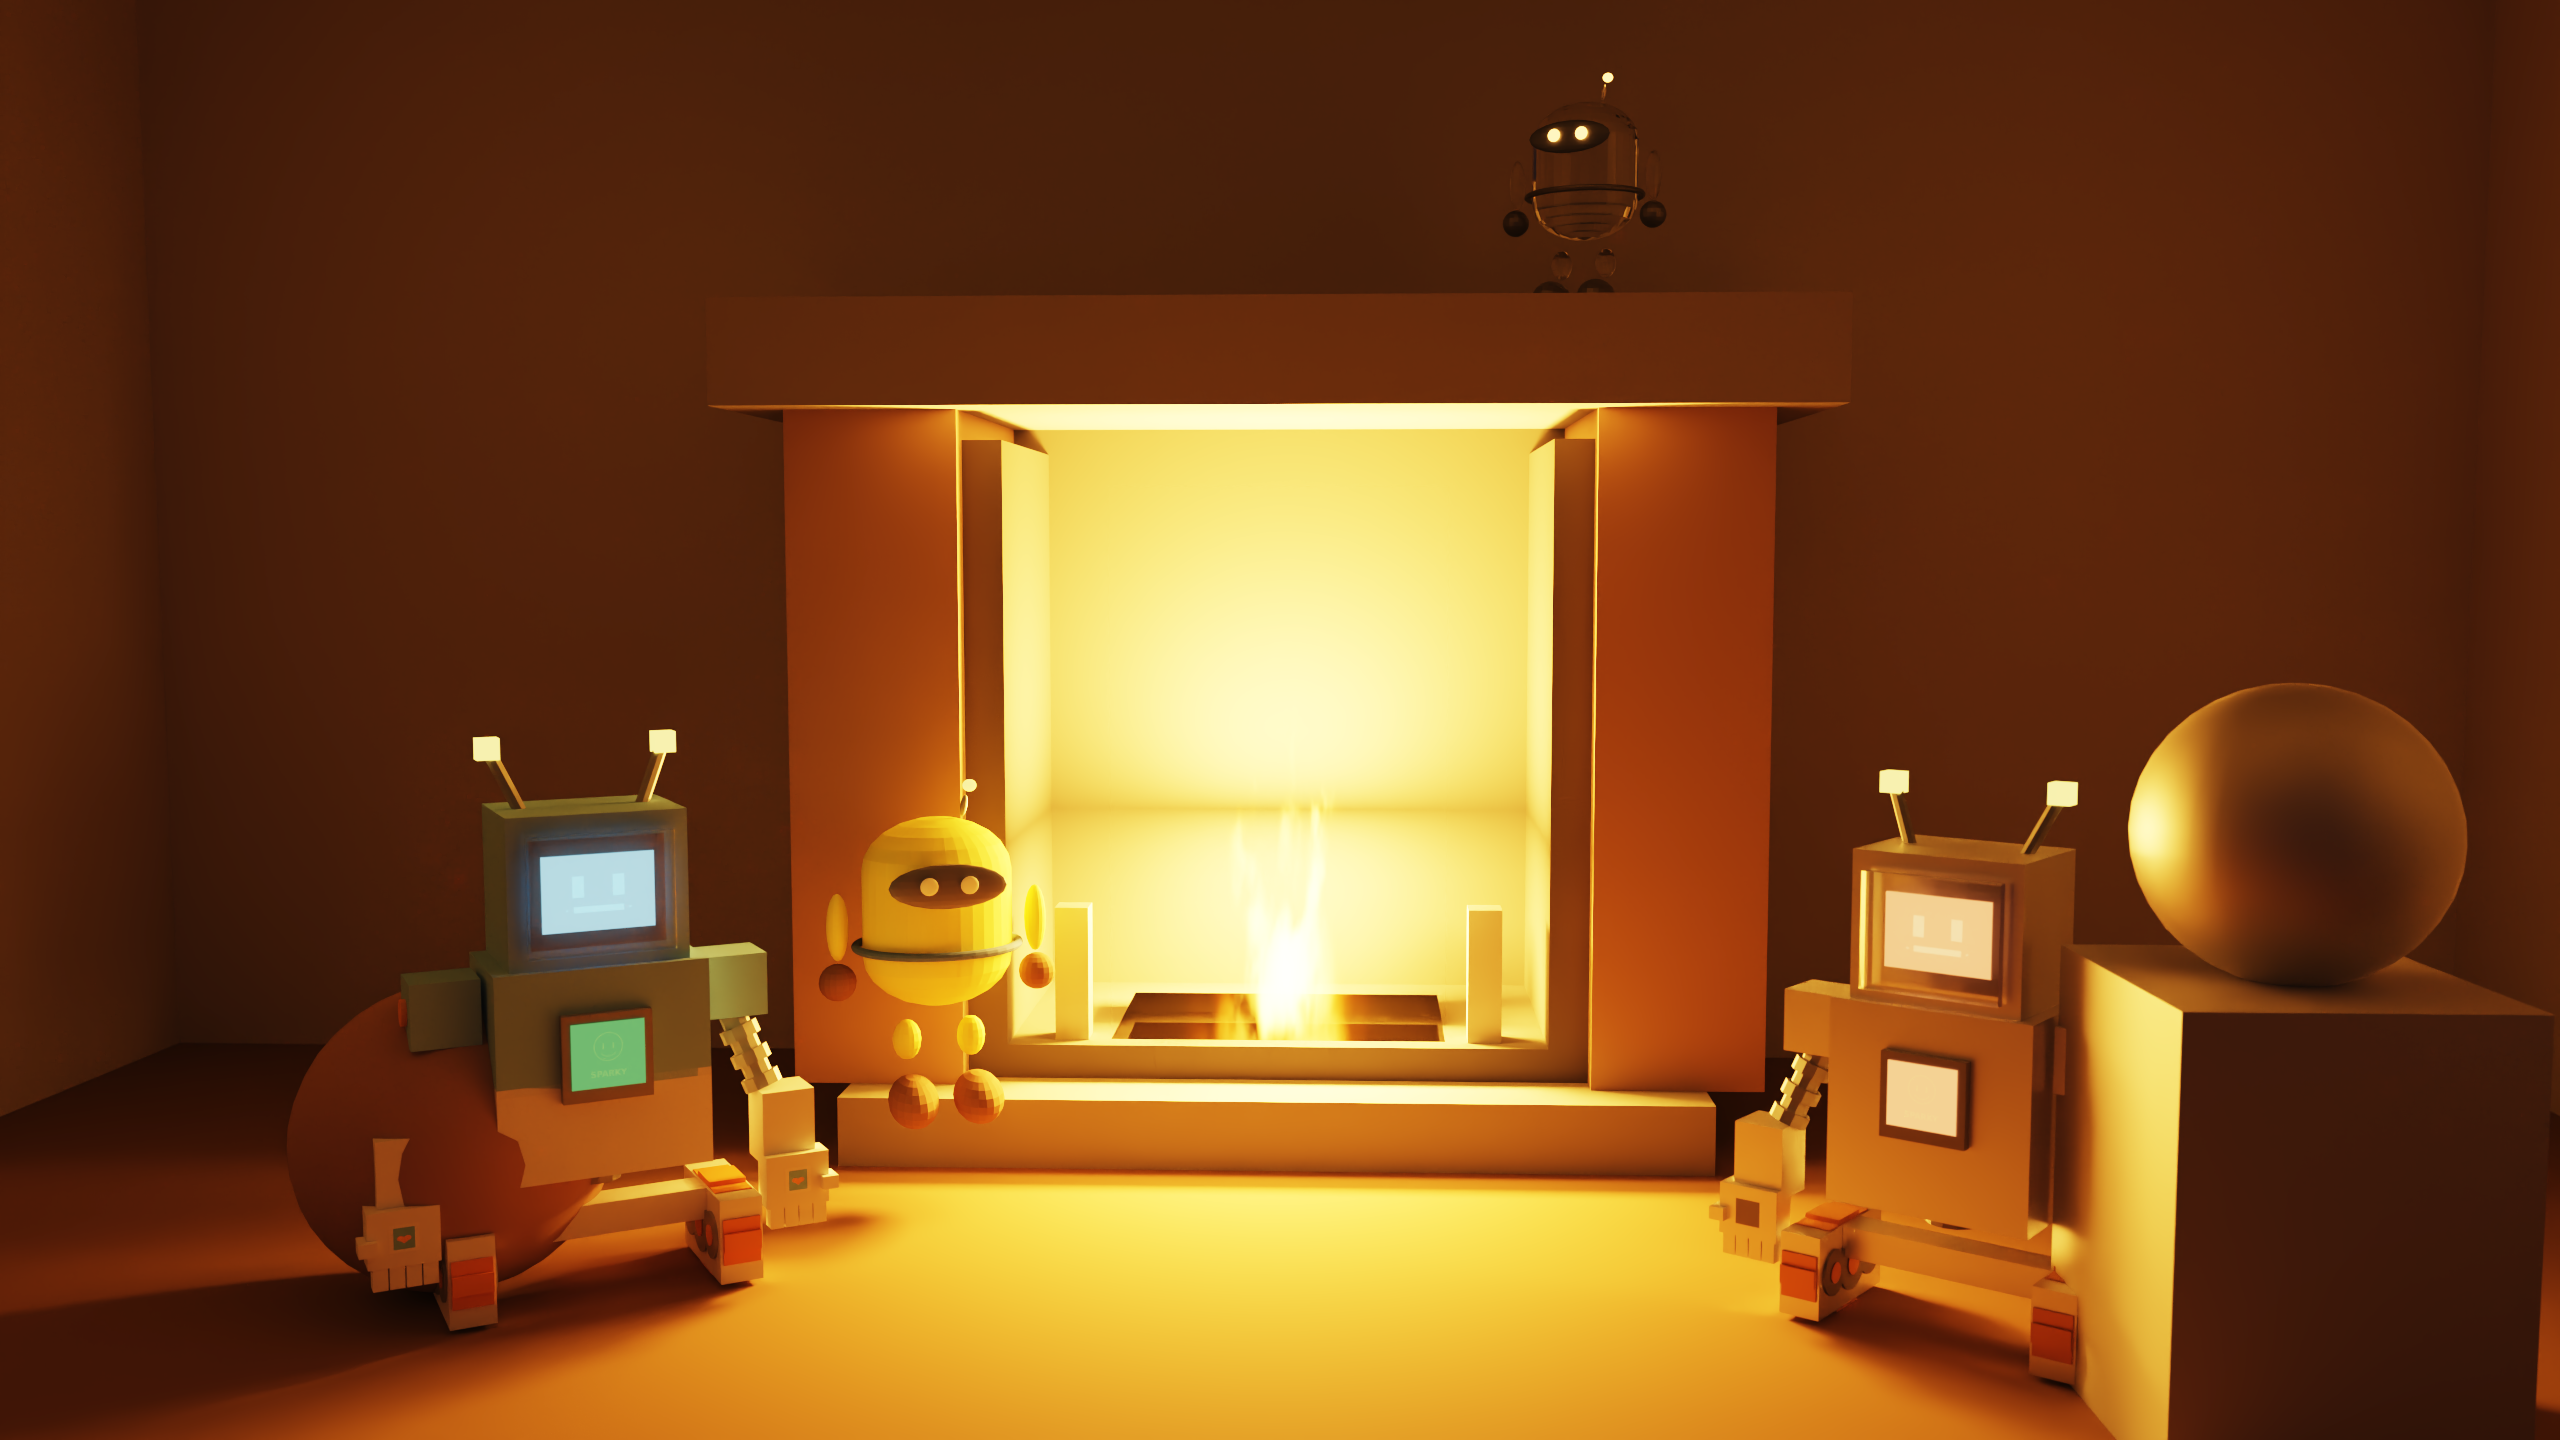
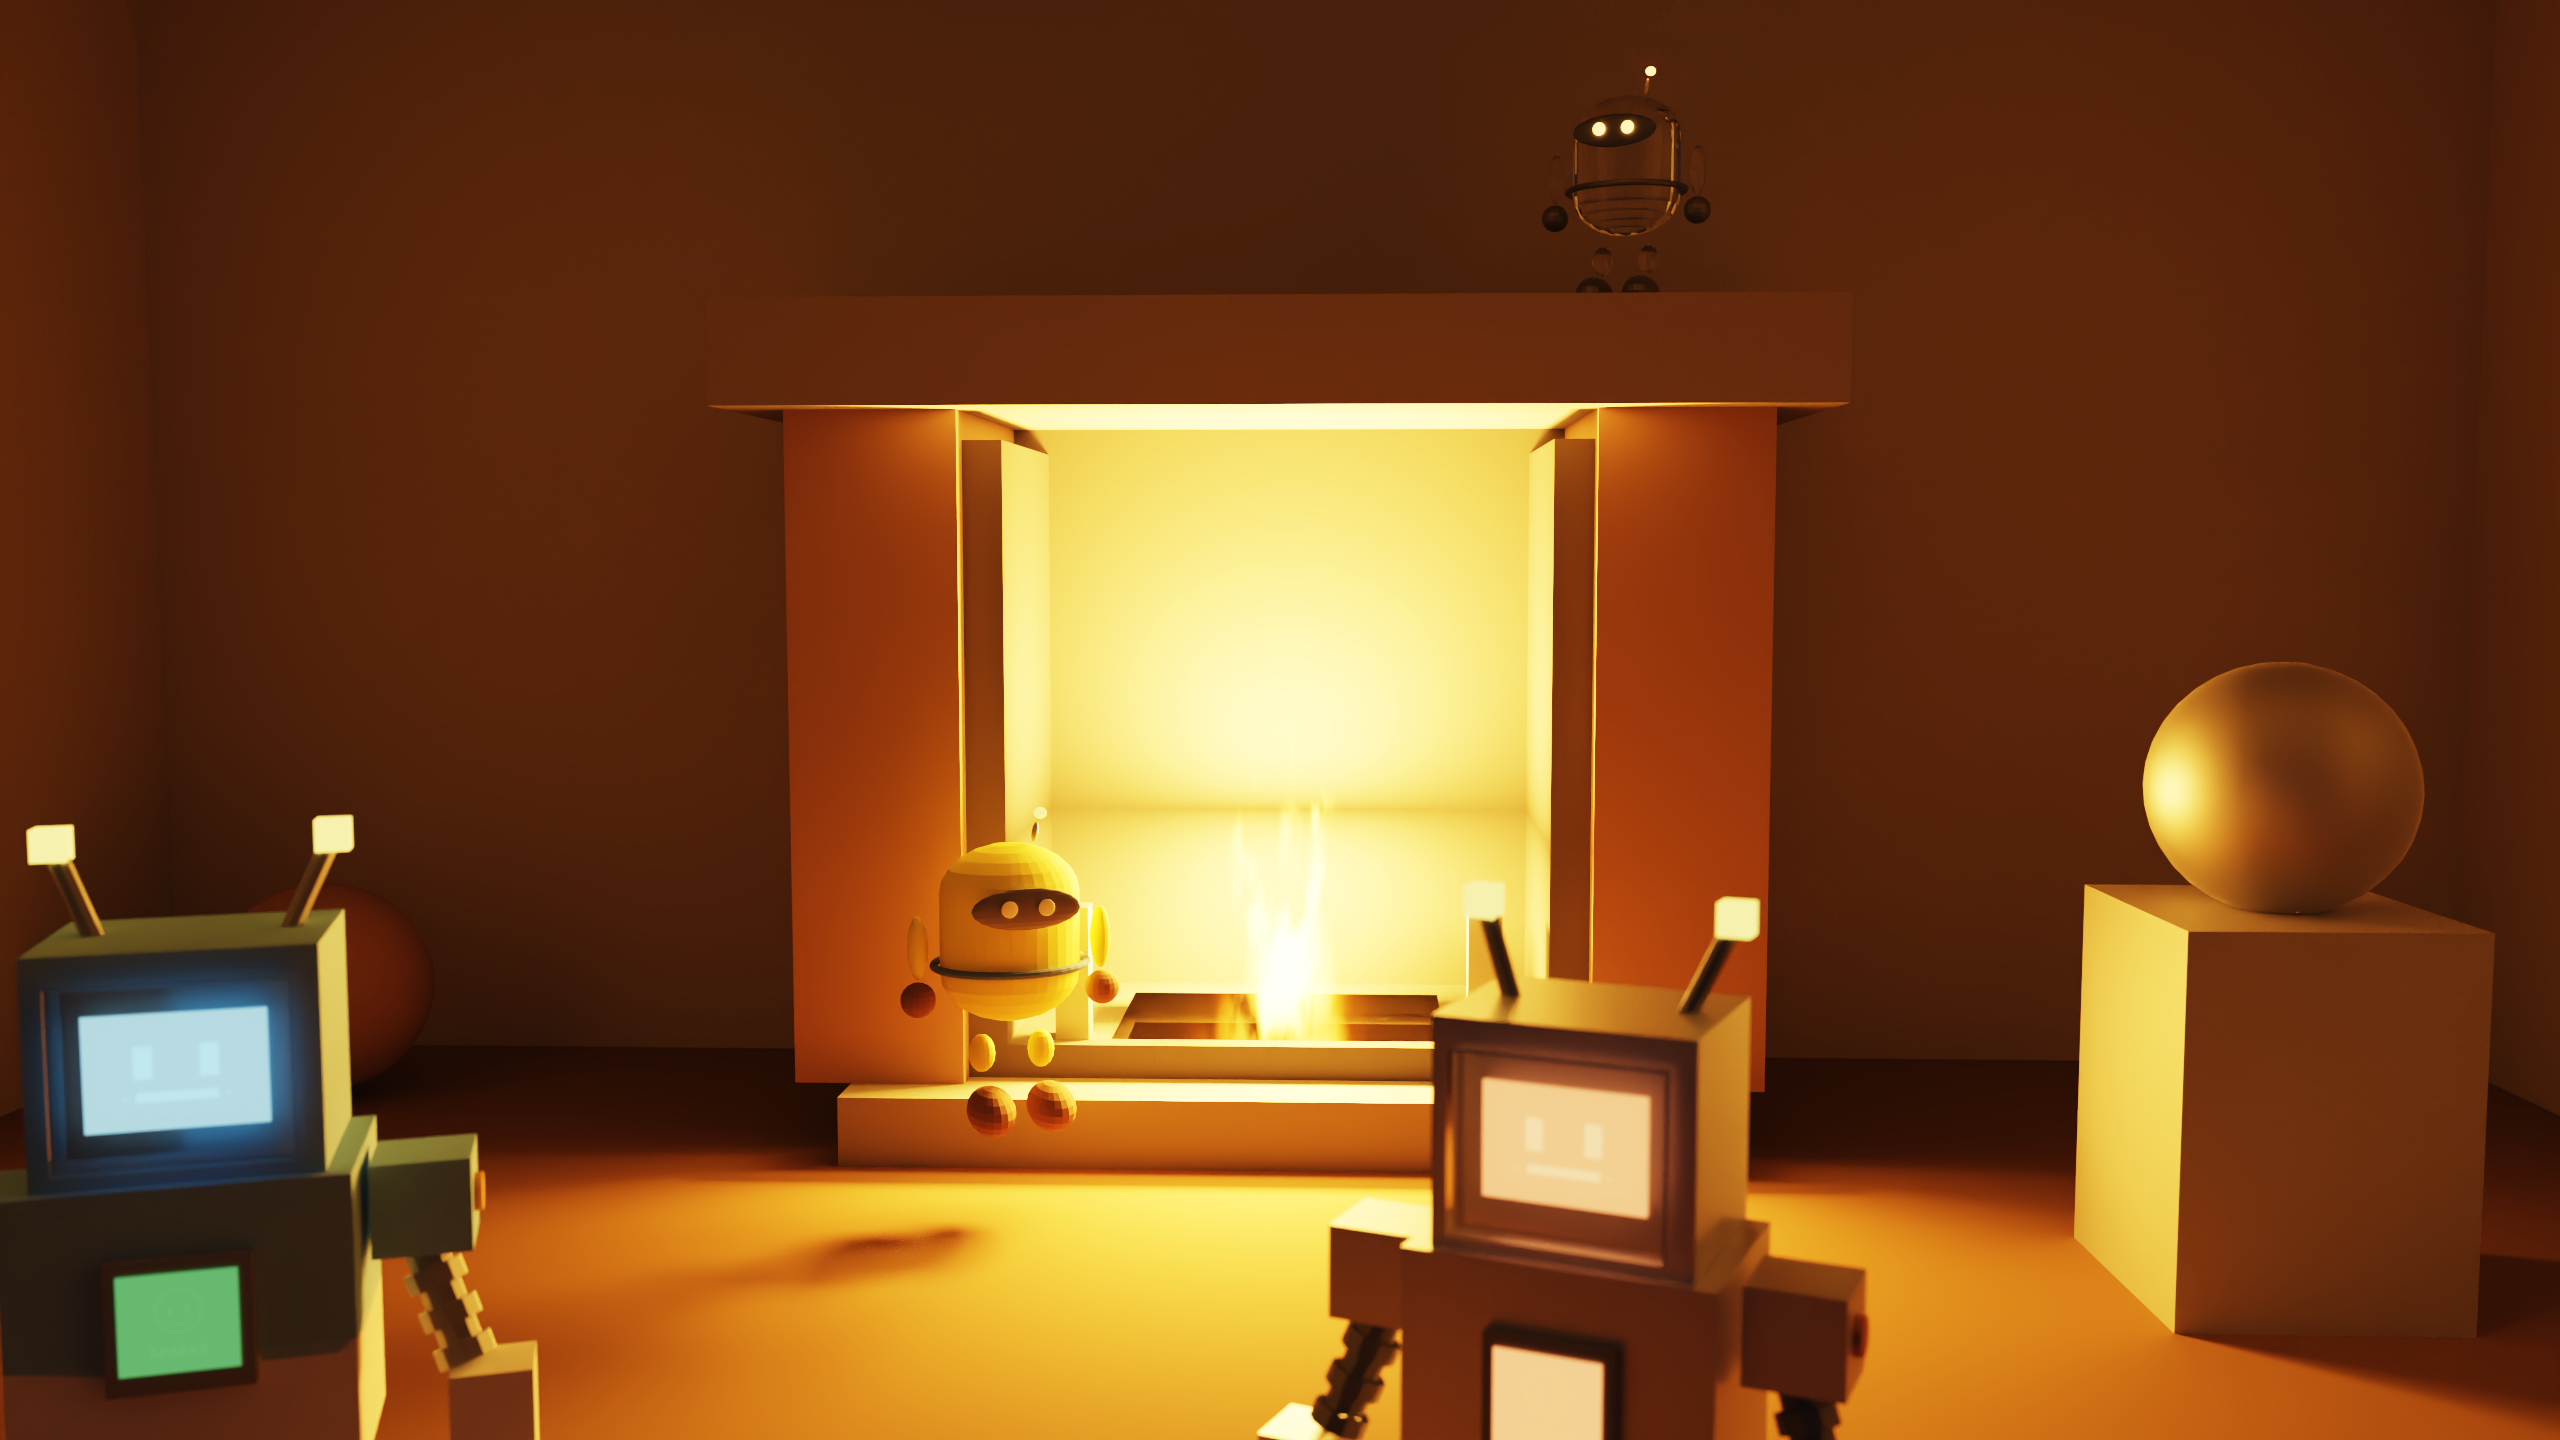
Keep fireplace mascots clear of the decorative spheres.
Move Sparky into the foreground and push the pottery/metal props back so nothing overlaps.

diff --git a/python/scenes/fireplace.py b/python/scenes/fireplace.py
@@ -75,10 +75,10 @@ def main() -> int:
         )
     )
 
-    # Props lit by the fire
-    scene.add_mesh(lc.make_uv_sphere((-1.15, 0.22, -0.55), 0.22, pottery, 40, 20))
-    scene.add_mesh(lc.make_box((1.05, 0.0, -0.35), (1.45, 0.55, 0.05), metal))
-    scene.add_mesh(lc.make_uv_sphere((1.25, 0.72, -0.15), 0.18, metal, 36, 18))
+    # Props lit by the fire (rear corners — clear of foreground mascots)
+    scene.add_mesh(lc.make_uv_sphere((-1.85, 0.22, -1.55), 0.20, pottery, 40, 20))
+    scene.add_mesh(lc.make_box((1.25, 0.0, -0.85), (1.65, 0.55, -0.45), metal))
+    scene.add_mesh(lc.make_uv_sphere((1.45, 0.72, -0.65), 0.18, metal, 36, 18))
     scene.add_mesh(lc.make_box((-0.40, 0.18, -1.40), (-0.34, 0.42, -1.34), metal))
     scene.add_mesh(lc.make_box((0.34, 0.18, -1.40), (0.40, 0.42, -1.34), metal))
 
@@ -229,31 +229,31 @@ def main() -> int:
     sparky_path = resolve_asset("assets/models/sparky.obj")
     mascot_path = resolve_asset("assets/models/capsule_mascot.obj")
 
-    # Floor-left: plastic Sparky facing the fire
+    # Floor-left foreground: plastic Sparky (clear of pottery ball)
     sparky_plastic_mesh = lc.load_obj(sparky_path, sparky_plastic, plastic_white)
     sparky_plastic_mesh = lc.transform_mesh(
-        sparky_plastic_mesh, (-0.95, 0.0, -0.55), (0.38, 0.38, 0.38), (0.0, 0.55, 0.0)
+        sparky_plastic_mesh, (-0.95, 0.0, 0.45), (0.38, 0.38, 0.38), (0.0, 0.35, 0.0)
     )
     scene.add_mesh(sparky_plastic_mesh)
 
-    # Floor-right: chrome Sparky
+    # Floor-right foreground: chrome Sparky (clear of metal pedestal / gold ball)
     sparky_chrome_mesh = lc.load_obj(sparky_path, sparky_chrome, chrome)
     sparky_chrome_mesh = lc.transform_mesh(
-        sparky_chrome_mesh, (0.95, 0.0, -0.45), (0.36, 0.36, 0.36), (0.0, -0.65, 0.0)
+        sparky_chrome_mesh, (0.35, 0.0, 0.55), (0.36, 0.36, 0.36), (0.0, -0.4, 0.0)
     )
     scene.add_mesh(sparky_chrome_mesh)
 
-    # Hearth-left: yellow Capsule (closer to fire)
+    # Hearth-left: yellow Capsule (on stone slab, clear of andirons)
     mascot_y = lc.load_obj(mascot_path, mascot_yellow, yellow)
     mascot_y = lc.transform_mesh(
-        mascot_y, (-0.55, 0.12, -1.05), (0.28, 0.28, 0.28), (0.0, 0.35, 0.0)
+        mascot_y, (-0.42, 0.12, -1.00), (0.26, 0.26, 0.26), (0.0, 0.4, 0.0)
     )
     scene.add_mesh(mascot_y)
 
     # Mantel-right: glass Capsule catching firelight
     mascot_g = lc.load_obj(mascot_path, mascot_glass, glass_body)
     mascot_g = lc.transform_mesh(
-        mascot_g, (0.55, 1.48, -1.55), (0.22, 0.22, 0.22), (0.0, -0.4, 0.0)
+        mascot_g, (0.62, 1.48, -1.50), (0.22, 0.22, 0.22), (0.0, -0.35, 0.0)
     )
     scene.add_mesh(mascot_g)
 